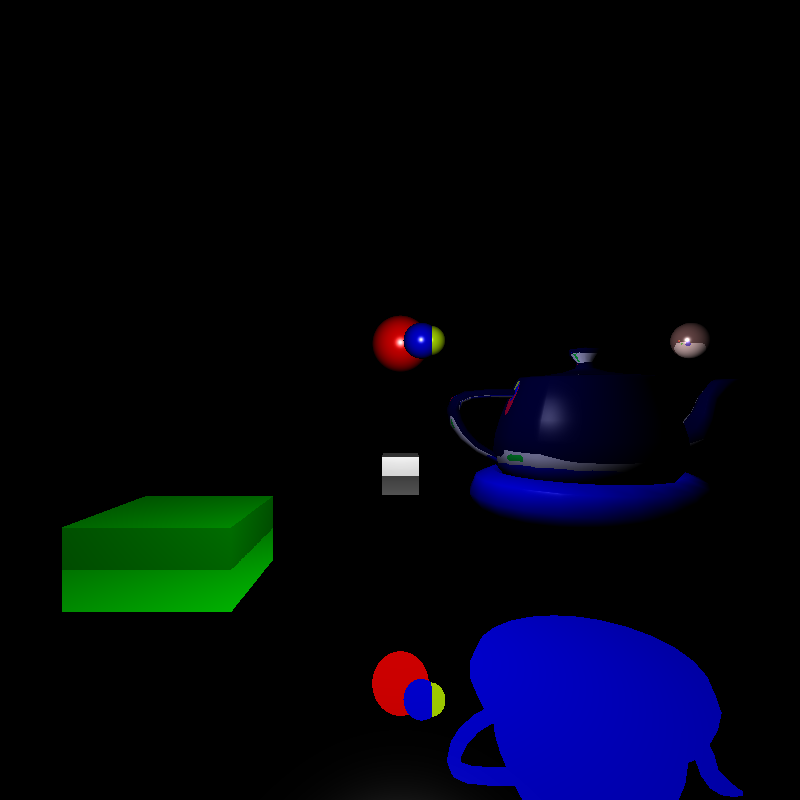
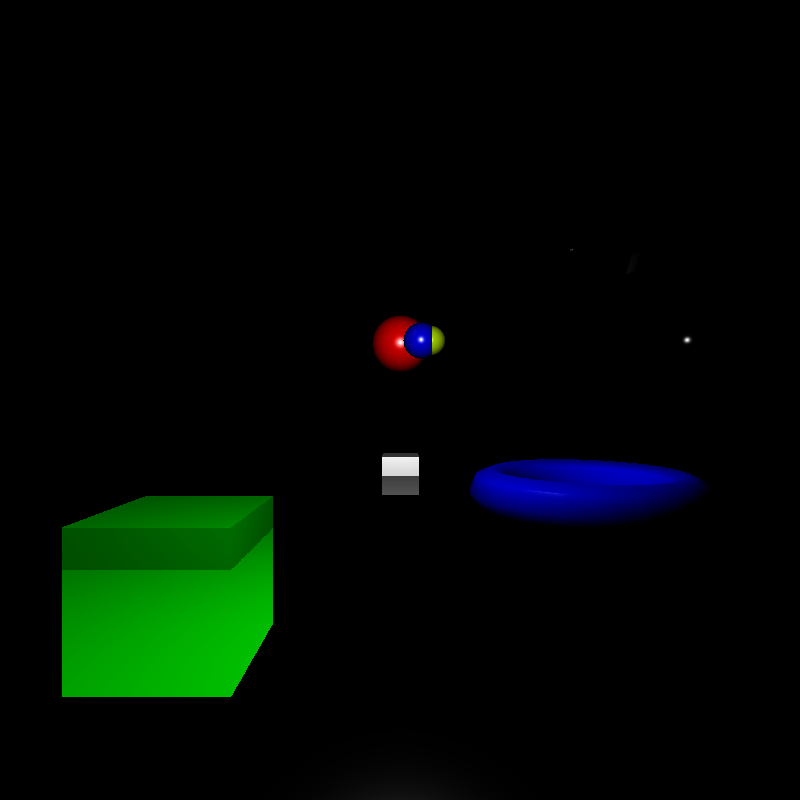
rollback

diff --git a/src/edu/up/isgc/cg/raytracer/Raytracer.java b/src/edu/up/isgc/cg/raytracer/Raytracer.java
@@ -43,11 +43,11 @@ public class Raytracer {
         Model3D cube = OBJReader.getModel3D("Cube.obj", new Vector3D(0f, -2.5, 10.0), Color.WHITE);
         Model3D plane = OBJReader.getModel3D("Plane.obj", new Vector3D(0.0, -2.0, 0), Color.WHITE);
 
-//        teapot.setScale(0.7);
-//        teapot.setRotation(rotation);
+        teapot.setScale(0.7);
+        teapot.setRotation(rotation);
 //        teapot.setDiffuse(10);
         teapot.setReflectivity(0.75);
-        plane.setReflectivity(1);
+        plane.setReflectivity(0.5);
 
         scene02.addObject(teapot);
         scene02.addObject(cube);
@@ -173,38 +173,42 @@ public class Raytracer {
             Color objColor = closestIntersection.getObject().getColor();
 
             if (closestIntersection.getObject().getReflectivity() > 0) {
-                objColor = trace(ray, objects, null, new double[]{cameraZ + nearFarPlanes[0], cameraZ + nearFarPlanes[1]}, 1);
+                objColor = trace(ray, objects, closestIntersection.getObject(), new double[]{cameraZ + nearFarPlanes[0], cameraZ + nearFarPlanes[1]}, 1);
             }
 
             for (Light light : lights) {
-                double nDotL = light.getNDotL(closestIntersection);
-                Color lightColor = light.getColor();
-                double intensity = light.getIntensity() * nDotL;
-
-                Vector3D lightDir = Vector3D.normalize(Vector3D.substract(light.getPosition(), closestIntersection.getPosition()));
-                Vector3D viewDir = Vector3D.normalize(Vector3D.substract(mainCamera.getPosition(), closestIntersection.getPosition()));
-                Vector3D halfwayDir = Vector3D.normalize(Vector3D.add(lightDir, viewDir));
-
-                double spec = Math.pow(Math.max(Vector3D.dotProduct(halfwayDir, closestIntersection.getNormal()), 0), closestIntersection.getObject().getDiffuse());
-
-                double[] lightColors = new double[]{lightColor.getRed() / 255.0, lightColor.getGreen() / 255.0, lightColor.getBlue() / 255.0};
-                double[] objColors = new double[]{objColor.getRed() / 255.0, objColor.getGreen() / 255.0, objColor.getBlue() / 255.0};
-                for (int colorIndex = 0; colorIndex < objColors.length; colorIndex++) {
-                    objColors[colorIndex] *= intensity * lightColors[colorIndex];
-                }
-
-                Color diffuse = new Color((float) Math.clamp(objColors[0], 0.0, 1.0),
-                        (float) Math.clamp(objColors[1], 0.0, 1.0),
-                        (float) Math.clamp(objColors[2], 0.0, 1.0));
-
-                Color specular = new Color((float) Math.clamp(spec, 0.0, 1.0),
-                        (float) Math.clamp(spec, 0.0, 1.0),
-                        (float) Math.clamp(spec, 0.0, 1.0));
-
-                pixelColor = addColor(specular, diffuse);
+                pixelColor = blinnPhong(light, closestIntersection, mainCamera, objColor);
             }
         }
         image.setRGB(i, j, pixelColor.getRGB());
+    }
+
+    public static Color blinnPhong(Light light, Intersection closestIntersection, Camera mainCamera, Color objColor) {
+        double nDotL = light.getNDotL(closestIntersection);
+        Color lightColor = light.getColor();
+        double intensity = light.getIntensity() * nDotL;
+
+        Vector3D lightDir = Vector3D.normalize(Vector3D.substract(light.getPosition(), closestIntersection.getPosition()));
+        Vector3D viewDir = Vector3D.normalize(Vector3D.substract(mainCamera.getPosition(), closestIntersection.getPosition()));
+        Vector3D halfwayDir = Vector3D.normalize(Vector3D.add(lightDir, viewDir));
+
+        double spec = Math.pow(Math.max(Vector3D.dotProduct(halfwayDir, closestIntersection.getNormal()), 0), closestIntersection.getObject().getDiffuse());
+
+        double[] lightColors = new double[]{lightColor.getRed() / 255.0, lightColor.getGreen() / 255.0, lightColor.getBlue() / 255.0};
+        double[] objColors = new double[]{objColor.getRed() / 255.0, objColor.getGreen() / 255.0, objColor.getBlue() / 255.0};
+        for (int colorIndex = 0; colorIndex < objColors.length; colorIndex++) {
+            objColors[colorIndex] *= intensity * lightColors[colorIndex];
+        }
+
+        Color diffuse = new Color((float) Math.clamp(objColors[0], 0.0, 1.0),
+                (float) Math.clamp(objColors[1], 0.0, 1.0),
+                (float) Math.clamp(objColors[2], 0.0, 1.0));
+
+        Color specular = new Color((float) Math.clamp(spec, 0.0, 1.0),
+                (float) Math.clamp(spec, 0.0, 1.0),
+                (float) Math.clamp(spec, 0.0, 1.0));
+
+        return addColor(specular, diffuse);
     }
 
     public static Color addColor(Color original, Color otherColor) {
